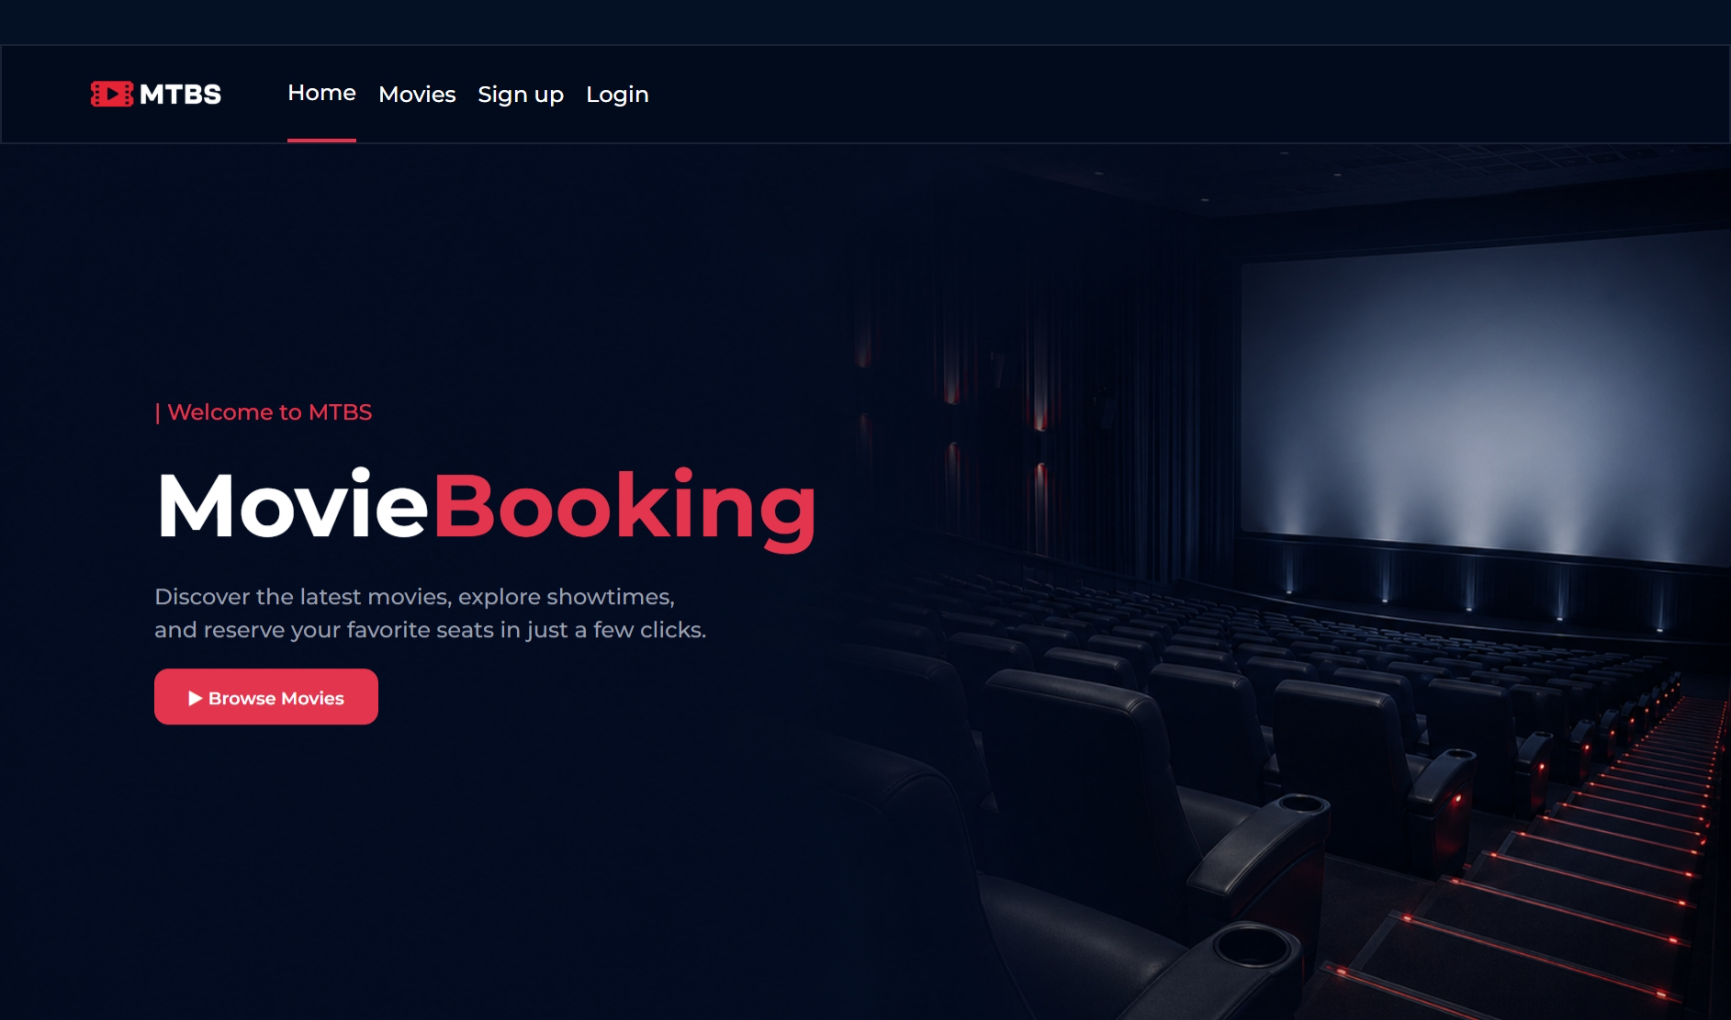
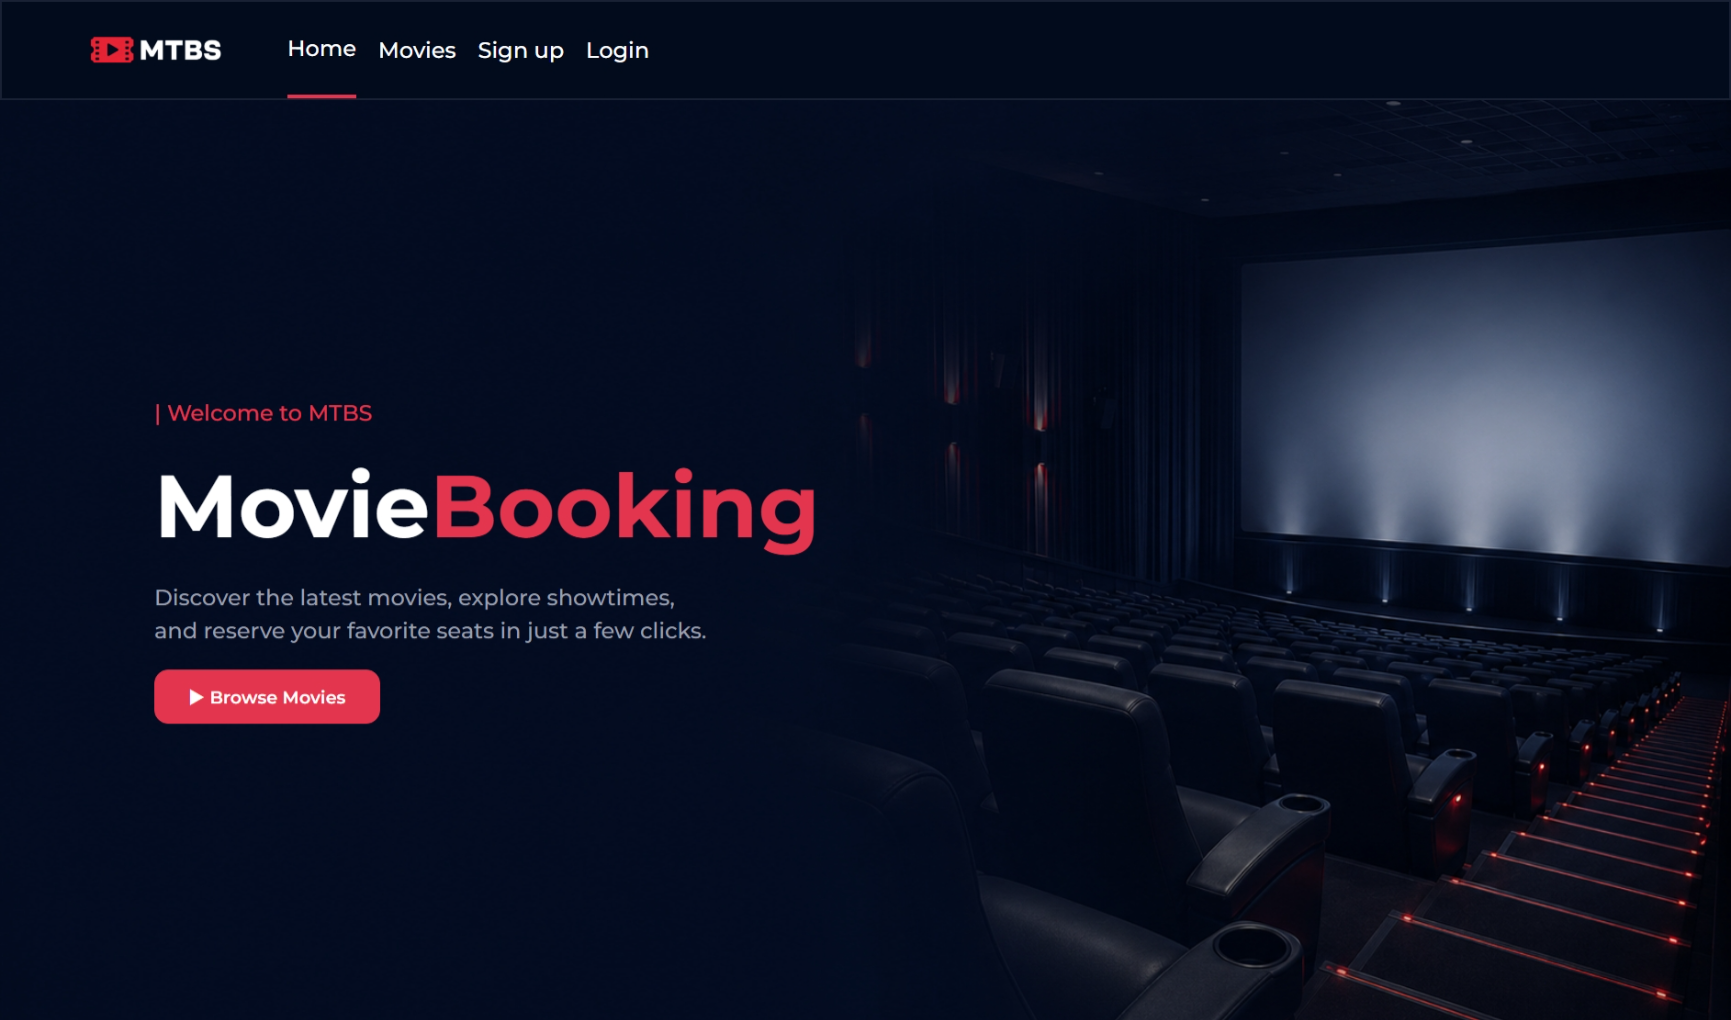
docs: update README with live demo link and add screenshots for home, movies, details, and seat selection pages

diff --git a/README.md b/README.md
@@ -4,7 +4,22 @@
 The **Movie Ticket Booking System (MTBS)** is a full-stack web application that allows users to browse movies, view available showtimes, select seats, and manage their bookings.<br>
 The system also provides administrators with tools to manage movies, cinema halls, and showtimes. It includes secure authentication, role-based access, automatic seat generation, seat-availability validation, and booking-status management.
 
+## Live Demo
+🎬 **[Launch Movie Ticket Booking System](https://movie-ticket-booking-system-vlxt.onrender.com)**
+
 ## Screenshots
+### Home Page — logged out
+![Home Page — logged out](./public/assets/images/reademe/home-page.png)
+
+### Movies Page — logged out
+![Movies Page — logged out](./public/assets/images/reademe/movies-page.png)
+
+### Movie Details and Showtimes — logged in user
+![Movie Details and showtimes — logged-in user](./public/assets/images/reademe/movie-details-page.png)
+
+### Seat Selection — logged-in user
+![Seat Selection Page](./public/assets/images/reademe/seat-selection-page.png)
+
 
 ## Technologies Used
 